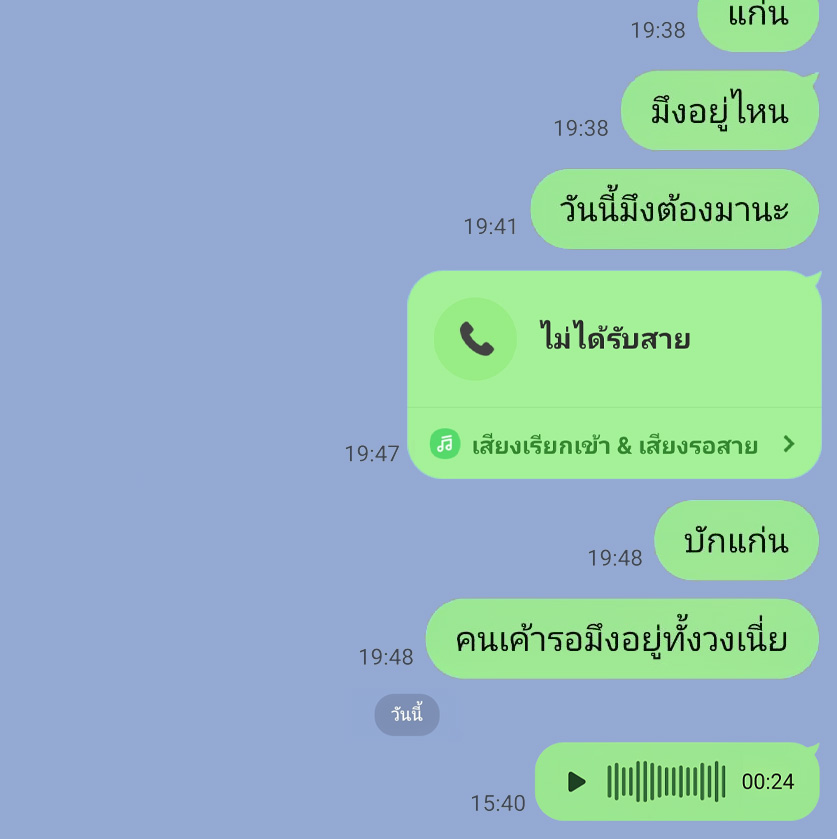
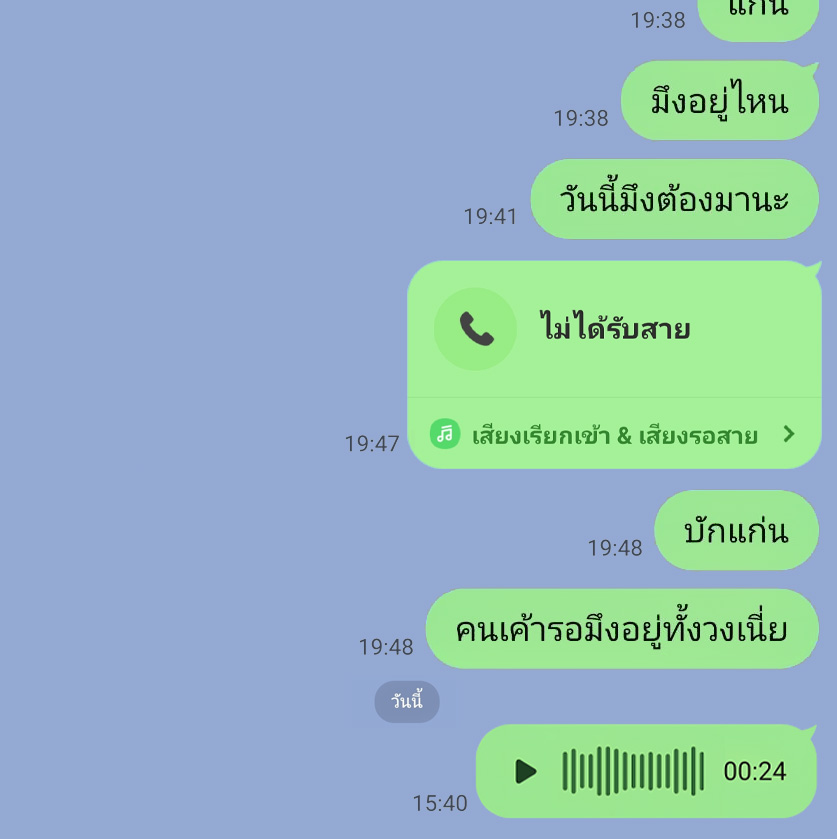
Support an image for room 6's voice-record panel, update image 2
Adds a voiceRecordPanelImage prop so the static "tap to record" prompt
can be a real screenshot asset instead of the built-in text + red-dot
circle — falls back to that built-in version if the image fails to load
(e.g. before the asset is in place), so the room never shows a broken
image icon.

diff --git a/src/components/MultiImageChatSimulator/MultiImageChatSimulator.tsx b/src/components/MultiImageChatSimulator/MultiImageChatSimulator.tsx
@@ -44,6 +44,9 @@ type Props = {
    *  enableVoiceRecord. Required for that feature to do anything once the
    *  panel itself is tapped. */
   voiceRecordVideo?: string;
+  /** A public/ asset path (image) shown for the static "tap to record"
+   *  prompt instead of the built-in text + red-dot circle. */
+  voiceRecordPanelImage?: string;
   /** White header text/icons (default, matches room 7's dark banner) or
    *  black (for a light wallpaper showing through a transparent header,
    *  like room 10's). */
@@ -69,6 +72,7 @@ export default function MultiImageChatSimulator({
   autoAdvance,
   enableVoiceRecord,
   voiceRecordVideo,
+  voiceRecordPanelImage,
   headerTint = "light",
 }: Props) {
   const iconColor = headerTint === "dark" ? "#1c1c1e" : "#ffffff";
@@ -95,6 +99,7 @@ export default function MultiImageChatSimulator({
 
   const openManage = () => router.push(manageHref);
   const [hasText, setHasText] = useState(false);
+  const [panelImageFailed, setPanelImageFailed] = useState(false);
   // "closed": normal texting mode. "panel": the static "tap to record"
   // prompt is showing. "recording": the stand-in video is playing in its
   // place, simulating an in-progress recording.
@@ -245,10 +250,22 @@ export default function MultiImageChatSimulator({
             tapping again advances the chat image and swaps back. */}
         {voiceStage === "panel" && (
           <div className={styles.recordPanel} onClick={onRecordAreaTap}>
-            <div className={styles.recordHint}>แตะเพื่อบันทึกข้อความเสียง</div>
-            <div className={styles.recordButton}>
-              <span className={styles.recordDot} />
-            </div>
+            {voiceRecordPanelImage && !panelImageFailed ? (
+              // eslint-disable-next-line @next/next/no-img-element -- static public/ asset, no next/image optimization needed
+              <img
+                src={voiceRecordPanelImage}
+                className={styles.recordPanelImage}
+                alt="แตะเพื่อบันทึกข้อความเสียง"
+                onError={() => setPanelImageFailed(true)}
+              />
+            ) : (
+              <>
+                <div className={styles.recordHint}>แตะเพื่อบันทึกข้อความเสียง</div>
+                <div className={styles.recordButton}>
+                  <span className={styles.recordDot} />
+                </div>
+              </>
+            )}
           </div>
         )}
         {voiceStage === "recording" && (

diff --git a/src/app/room6/page.tsx b/src/app/room6/page.tsx
@@ -14,6 +14,7 @@ export default function Room6Page() {
       manageHref="/room6/manage"
       enableVoiceRecord
       voiceRecordVideo="/room6-voice-record.mp4"
+      voiceRecordPanelImage="/room6-voice-record-panel.png"
       headerTint="dark"
     />
   );

diff --git a/src/components/MultiImageChatSimulator/MultiImageChatSimulator.module.css b/src/components/MultiImageChatSimulator/MultiImageChatSimulator.module.css
@@ -267,6 +267,13 @@
   display: block;
 }
 
+.recordPanelImage {
+  max-width: 100%;
+  max-height: 100%;
+  object-fit: contain;
+  display: block;
+}
+
 .recordHint {
   font: 400 14px system-ui, -apple-system, "Noto Sans Thai", sans-serif;
   color: #8e8e93;
